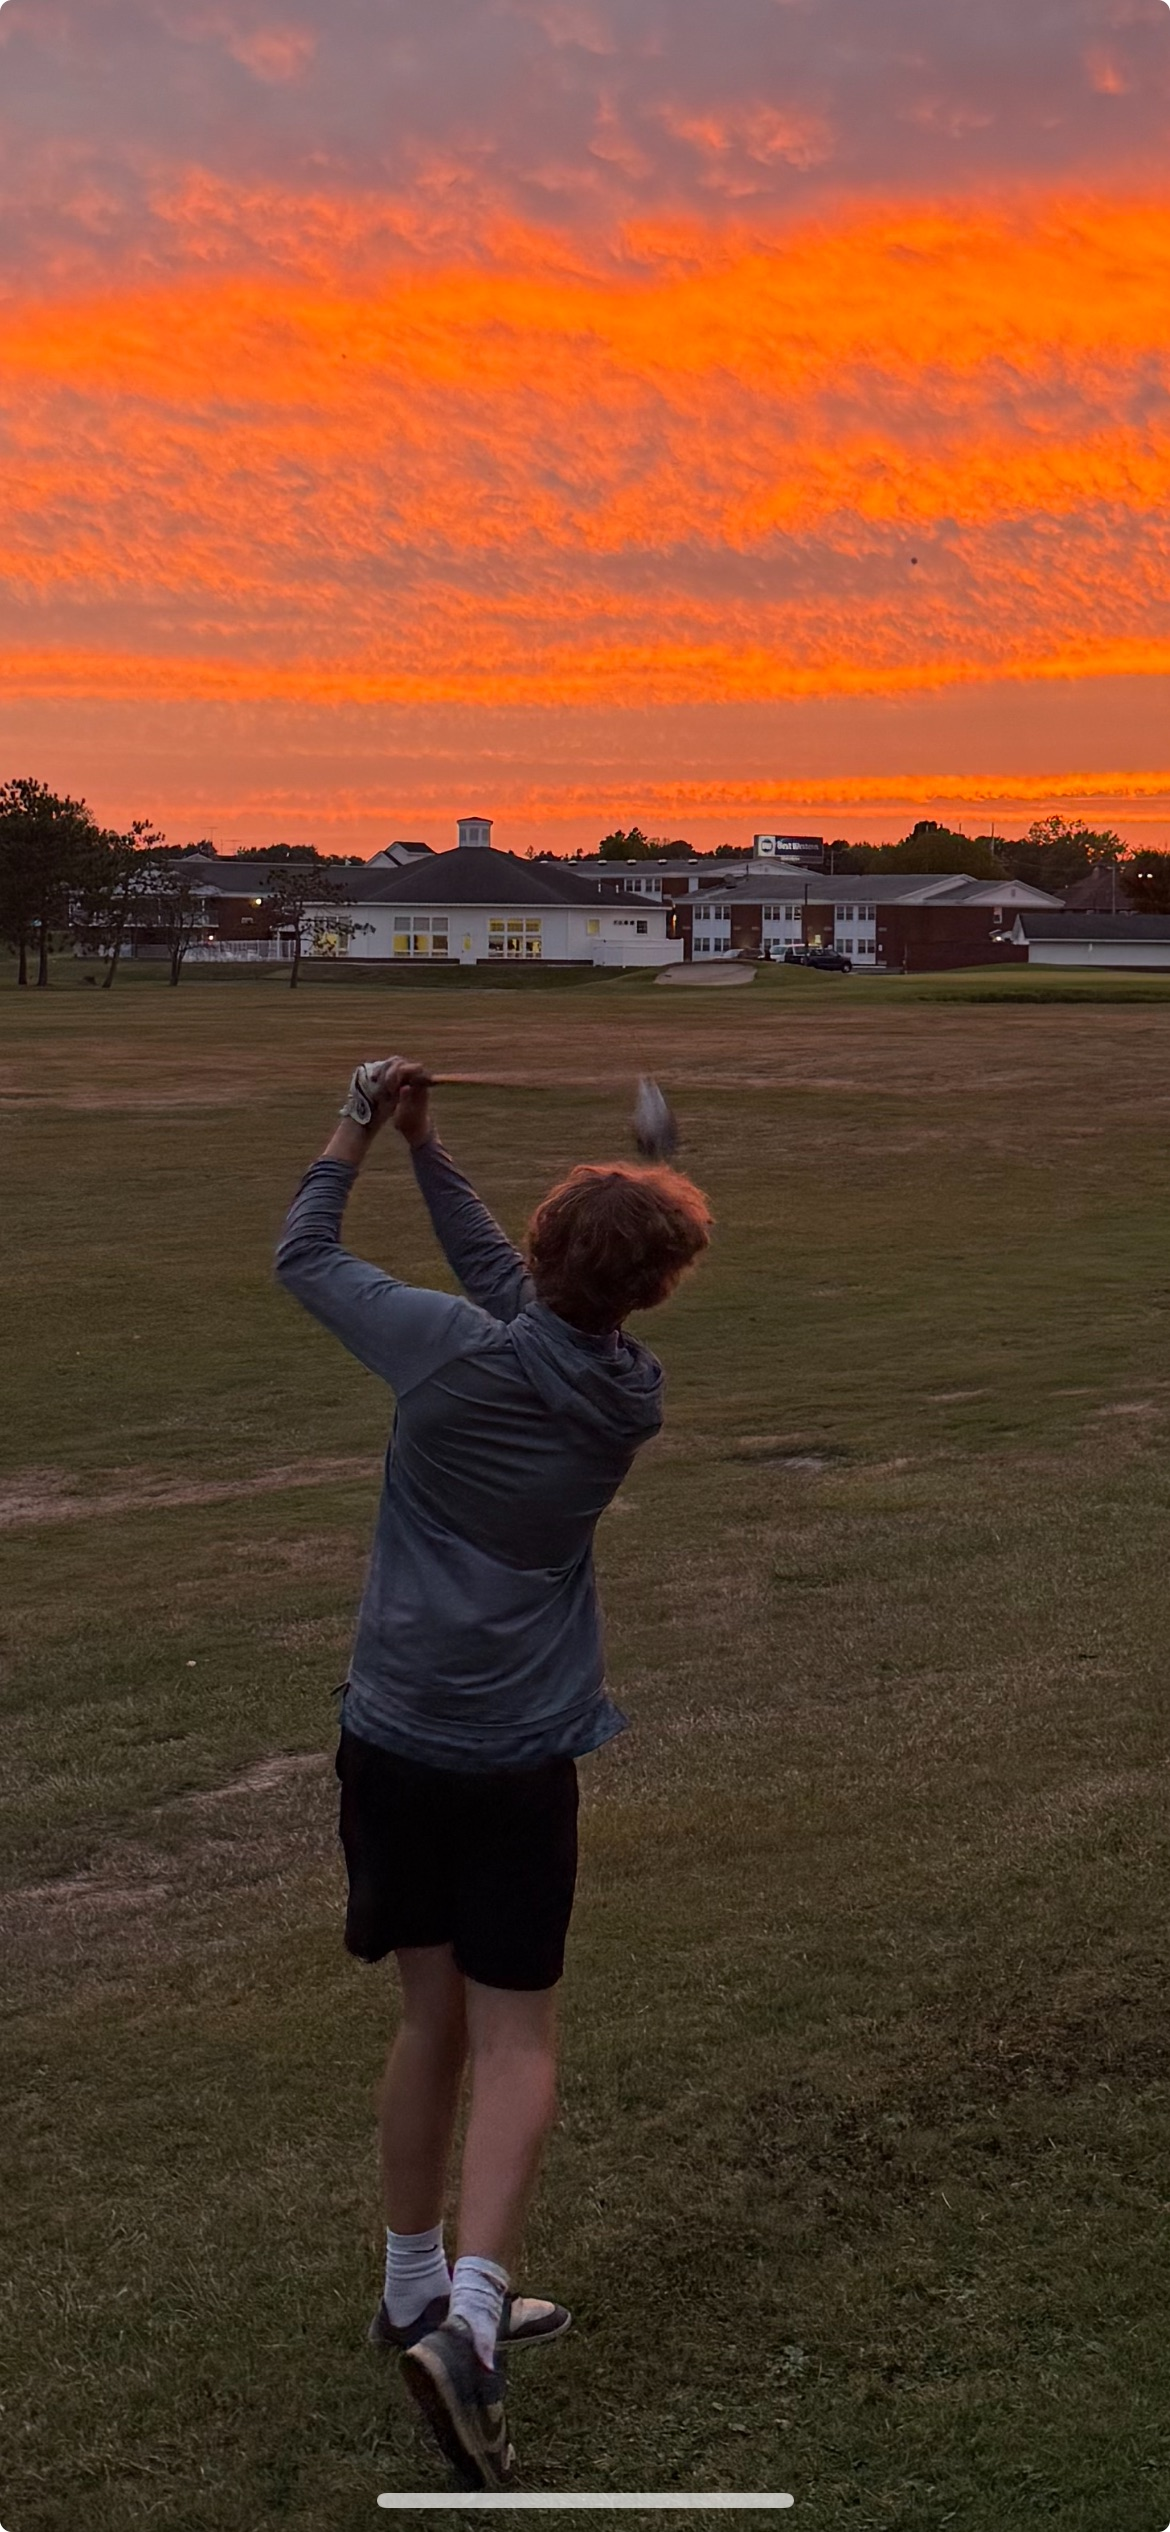
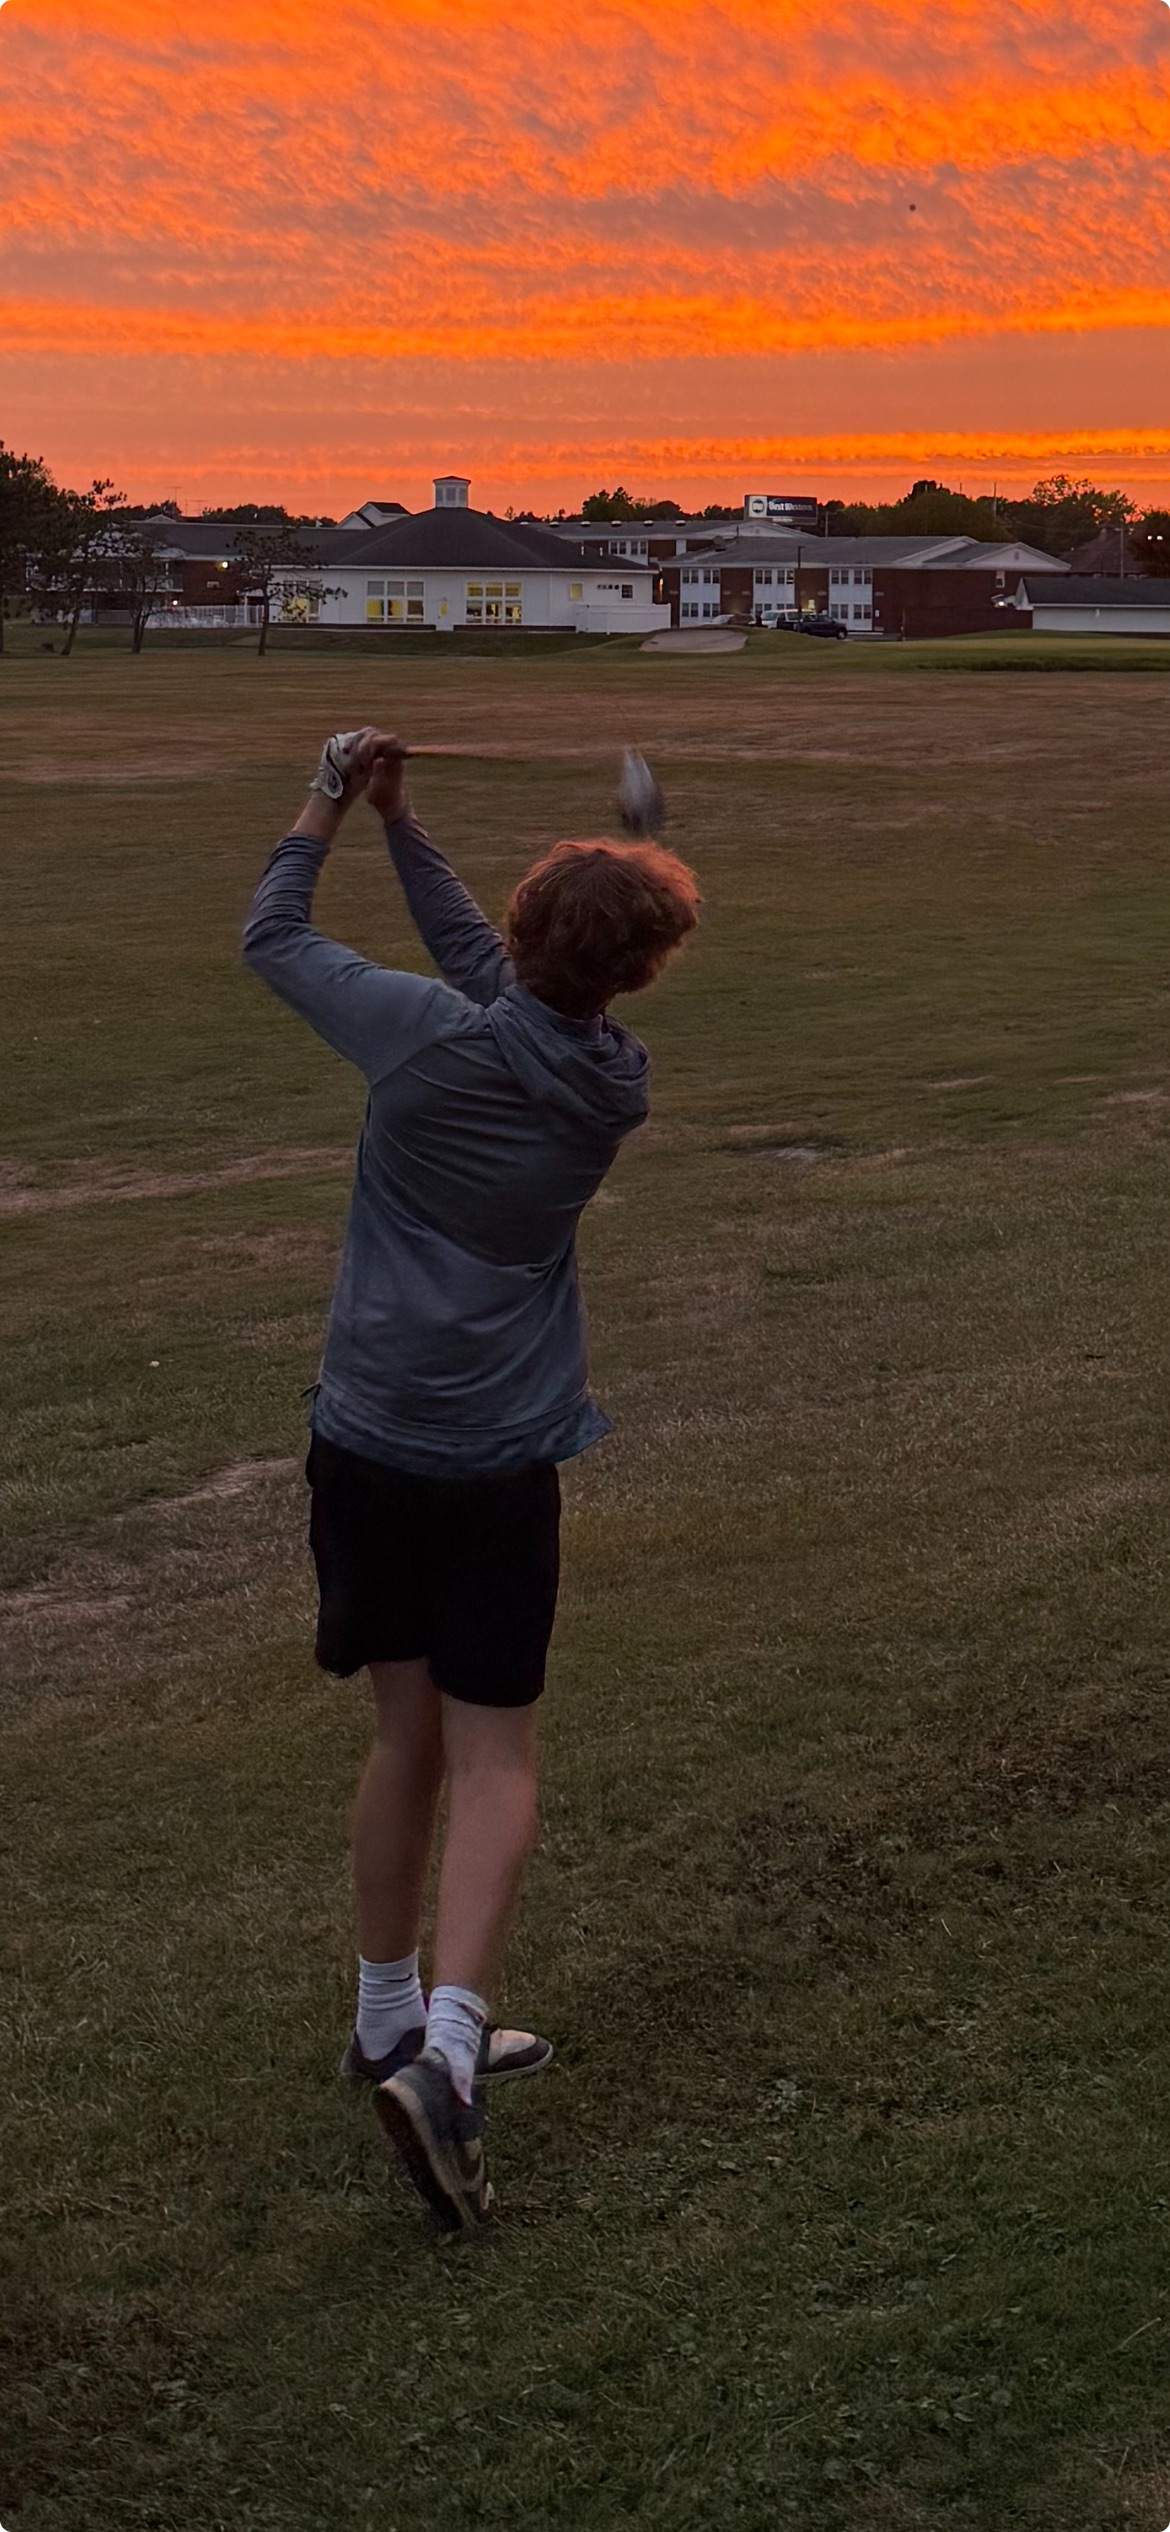
img

diff --git a/about.html b/about.html
@@ -167,12 +167,11 @@
                         I am eager to connect with professionals who share my passion for data analysis and explore
                         opportunities to apply my statistical knowledge.
                     </p>
+                </div>
 
-                    <div class="col-md-5 mt-3 mt-md-0">
-                        <img src="golf.jpeg" alt="Playing Golf" class="img-fluid rounded shadow-sm"
-                            style="border: 3px solid white;">
-                    </div>
-
+                <div class="col-lg-4 mt-4 mt-lg-0">
+                    <img src="golf.jpeg" alt="Playing Golf" class="img-fluid rounded shadow-sm"
+                        style="border: 3px solid white;">
                 </div>
             </div>
         </section>
